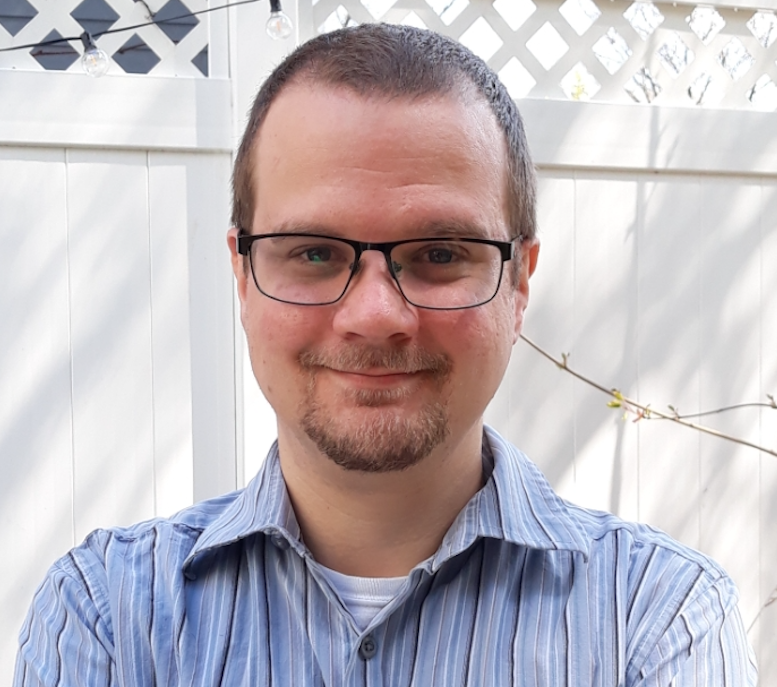
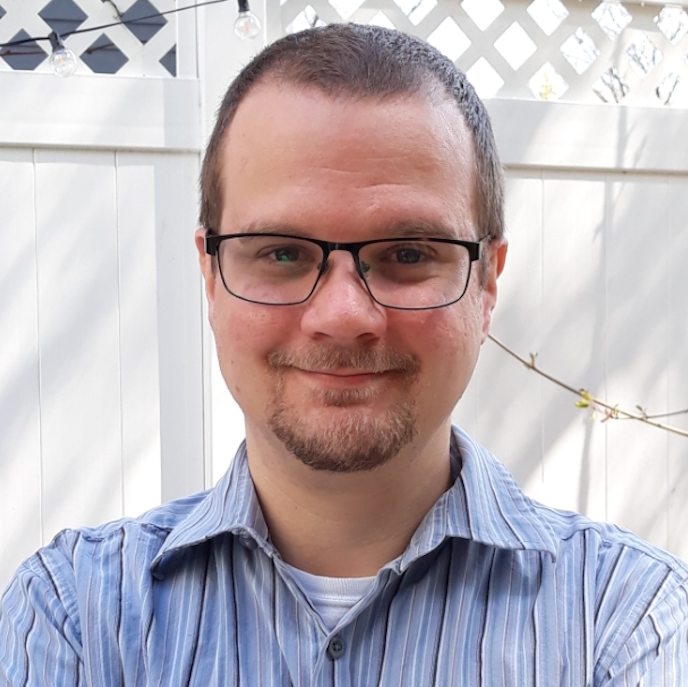
Danysh Staging - Cropping and Adjusting Images (#84)
* Danysh Staging - Cropping and Adjusting Images

* Danysh Staging - Crop Andrew's picture

diff --git a/team/_posts/1970-01-01-maruvka-yosef.md b/team/_posts/1970-01-01-maruvka-yosef.md
@@ -6,7 +6,7 @@ category: Associated Scientist
 position: Assistant Professor at Biotechnology & food engineering. Technion.
 email: maruvka@broadinstitute.org
 github: 
-image: /assets/images/team/Yosi_Maruvka.jpeg
+image: /assets/images/team/Yosi_Maruvka.png
 cv:
 linkedin: yosef-maruvka-a9071b21
 alum: false

diff --git a/team/_posts/1970-01-01-ravi-arvind.md b/team/_posts/1970-01-01-ravi-arvind.md
@@ -5,7 +5,7 @@ category: Postdoctoral Researcher
 position: Postdoctoral Scholar, Instructor
 email: aravi@broadinstitute.org
 github: 
-image: /assets/images/team/Arvind_Ravi.jpeg
+image: /assets/images/team/Arvind_Ravi.png
 cv:
 alum: false
 ---
